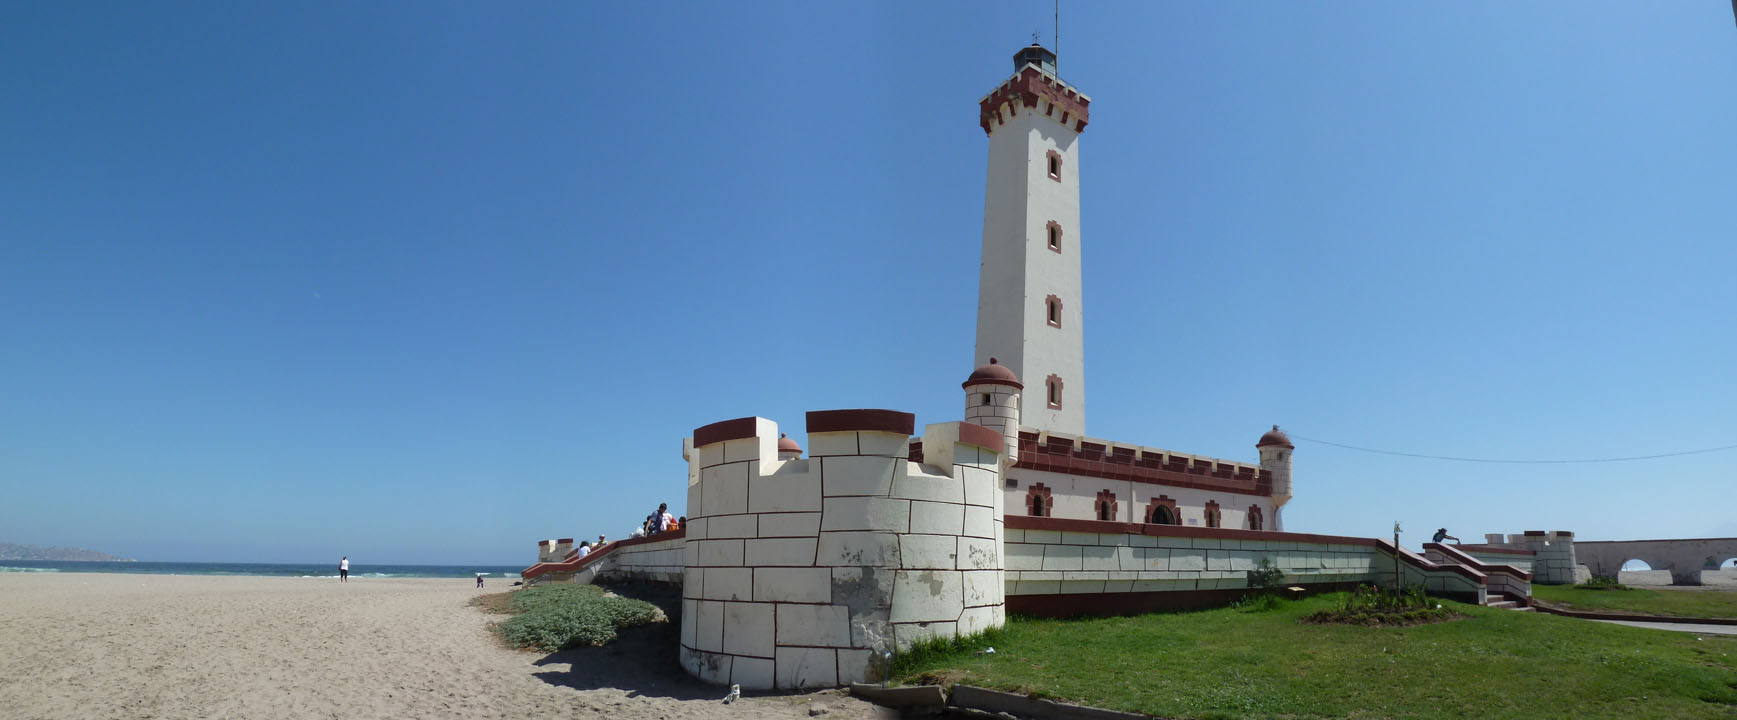
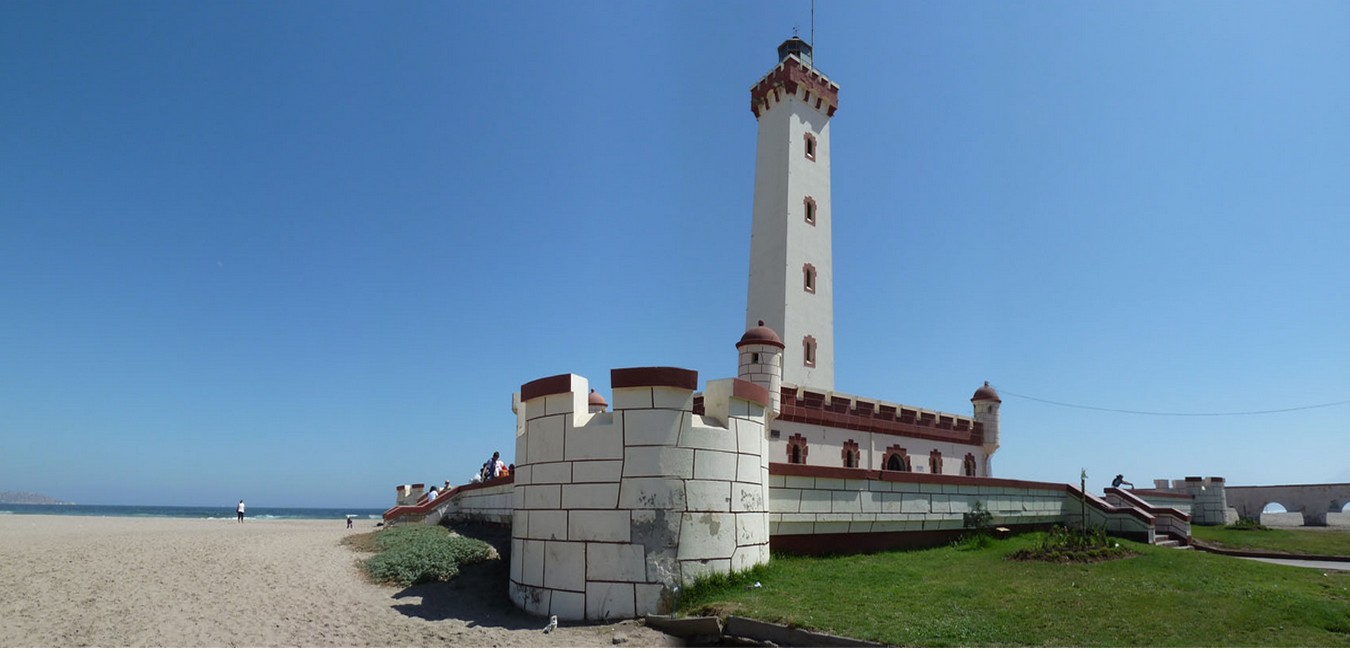
imagen de fondo

Changed region(s): [[0.0, 0.0308, 1.0, 1.0], [0.9956, 0.0, 1.0, 0.0308]]

diff --git a/app/assets/stylesheets/app.css.scss b/app/assets/stylesheets/app.css.scss
@@ -3,7 +3,9 @@
 	float:none;
 }
 
-.fondo{
-  filter: blur(4px);
-
+#fondo{
+  filter: blur(5px);
+  width: auto;
+  height: auto;
+  margin: 0px;
  }
